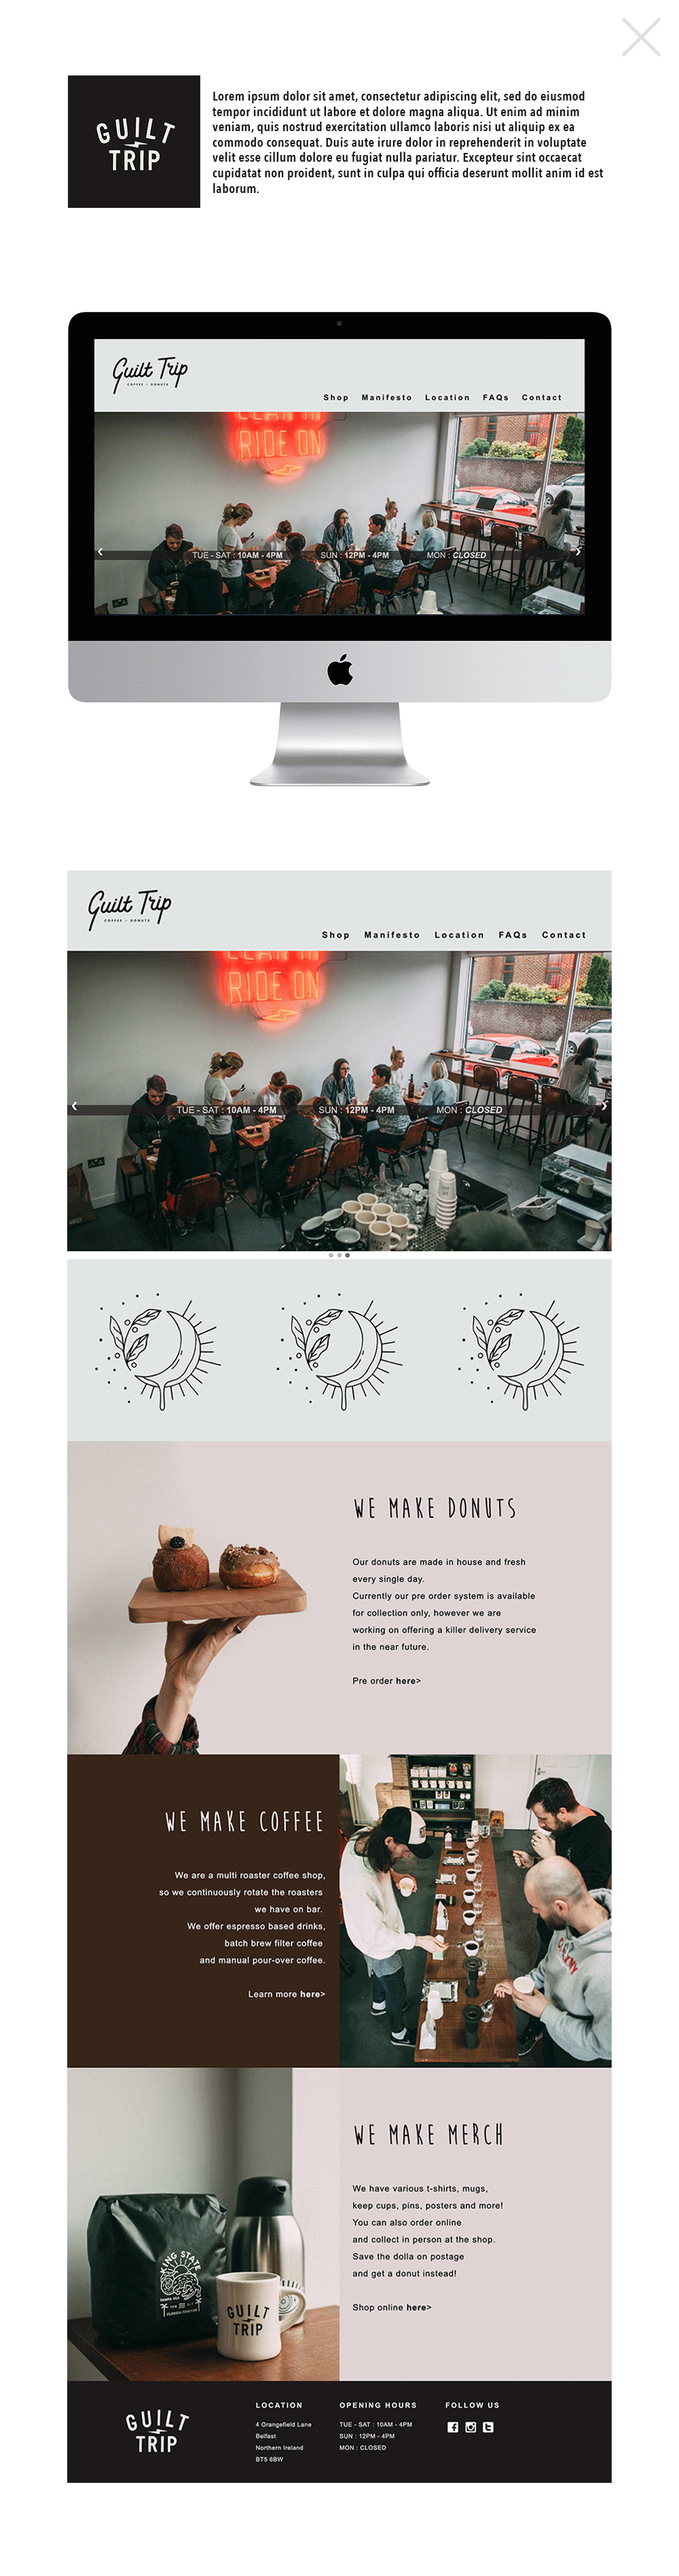
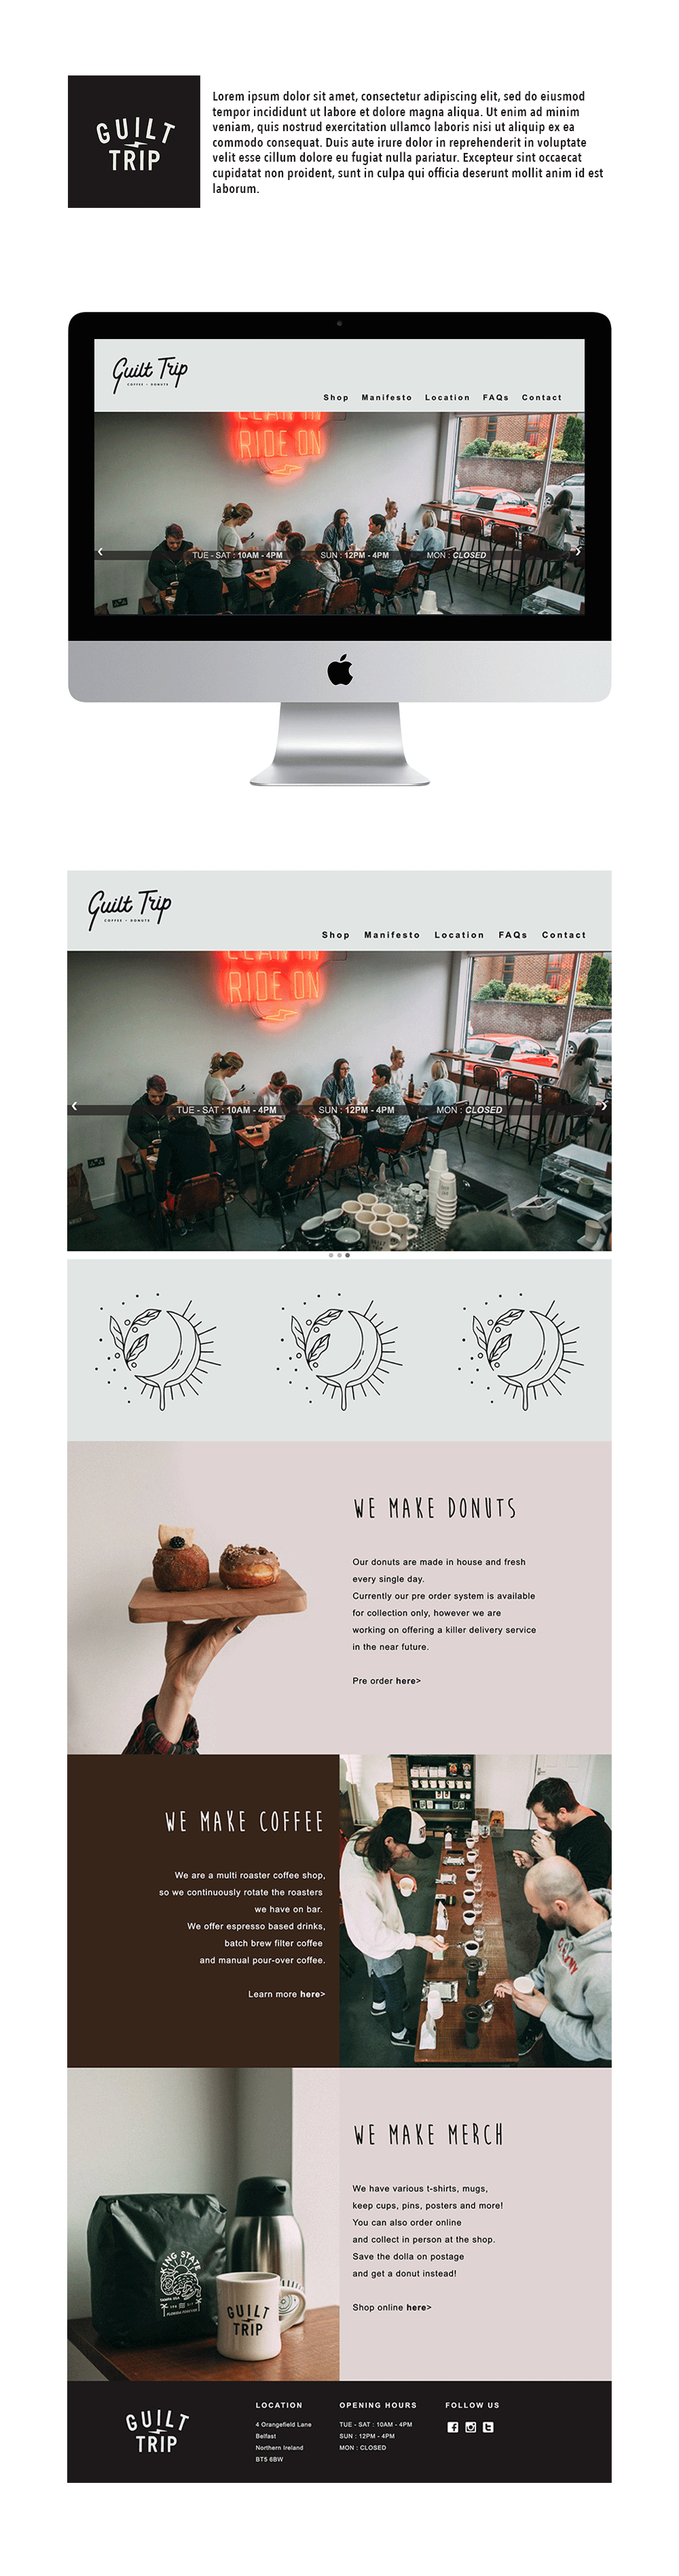
exitbutton

diff --git a/myPortfolio/portfolio.html b/myPortfolio/portfolio.html
@@ -80,7 +80,7 @@
         <div class="modal" id="modal1">
             <div class="popup">
                 <div class="image">
-                    <div class="close" id="top"><p>X</p></div>
+                    <div class="close"><img src="images/close.png" alt="exit"></div>
                     <img src="images/sub_oceanic.png" alt="ocn_website_popup">
                 </div>
             </div>
@@ -88,7 +88,7 @@
         <div class="modal" id="modal2">
             <div class="popup">
                 <div class="image">
-                    <div class="close" id="top"><p>X</p></div>
+                    <div class="close"></div>
                     <img src="images/sub_guiltTrip.png" alt="guiltTrip_website_popup">
                 </div>
             </div>
@@ -96,7 +96,7 @@
         <div class="modal" id="modal3">
             <div class="popup">
                 <div class="image">
-                    <div class="close" id="top"><p>X</p></div>
+                    <div class="close"><img src="images/close.png" alt="exit"></div>
                     <img src="images/sub_oceanic.png" alt="ocn_website_popup">
                 </div>
             </div>
@@ -104,7 +104,7 @@
         <div class="modal" id="modal4">
             <div class="popup">
                 <div class="image">
-                    <div class="close" id="top"><p>X</p></div>
+                    <div class="close"><img src="images/close.png" alt="exit"></div>
                     <img src="images/sub_3d.png" alt="3d_portfolio_popup">
                 </div>
             </div>
@@ -112,7 +112,7 @@
         <div class="modal" id="modal5">
             <div class="popup">
                 <div class="image">
-                    <div class="close" id="top"><p>X</p></div>
+                    <div class="close"><img src="images/close.png" alt="exit"></div>
                     <img src="images/sub_WhereAmI.png" alt="wai_website_popup">
                 </div>
             </div>
@@ -120,7 +120,7 @@
         <div class="modal" id="modal6">
             <div class="popup">
                 <div class="image">
-                    <div class="close" id="top"><p>X</p></div>
+                    <div class="close"><img src="images/close.png" alt="exit"></div>
                     <img src="images/sub_ivd.png" alt="ivd_website_popup">
                 </div>
             </div>
@@ -128,7 +128,7 @@
         <div class="modal" id="modal7">
             <div class="popup">
                 <div class="image">
-                    <div class="close" id="top"><p>X</p></div>
+                    <div class="close"><img src="images/close.png" alt="exit"></div>
                     <img src="images/sub_shoes.png" alt="shoes_portfolio_popup">
                 </div>
             </div>
@@ -136,7 +136,7 @@
         <div class="modal" id="modal8">
             <div class="popup">
                 <div class="image">
-                    <div class="close" id="top"><p>X</p></div>
+                    <div class="close"><img src="images/close.png" alt="exit"></div>
                     <img src="images/sub_threeSiblings.png" alt="icons_portfolio_popup">
                 </div>
             </div>
@@ -144,7 +144,7 @@
         <div class="modal" id="modal9">
             <div class="popup">
                 <div class="image">
-                    <div class="close" id="top"><p>X</p></div>
+                    <div class="close"><img src="images/close.png" alt="exit"></div>
                     <img src="images/sub_coffee.png" alt="coffee_portfolio_popup">
                 </div>
             </div>

diff --git a/myPortfolio/style.css b/myPortfolio/style.css
@@ -295,19 +295,19 @@ img{
 }
 
 .close{
-    width: 6%;
-    height: 70px;
-    background-color: rgba(0, 0, 0, 0.2);
+    width: 5%;
+    height: 60px;
+    background-color: rgba(0, 0, 0, 0.4);
+    background-image: url("images/close.png");
+    background-size: cover;
+    background-repeat: no-repeat;
     position: absolute;
     right: 20%;
 }
 
-.close>p{
-    font-size: 65px;
-    font-weight: lighter;
-    color: #fff;
+/* .close>img{
     padding: 0 14px;
-}
+} */
 
 /* footer */
 footer{
